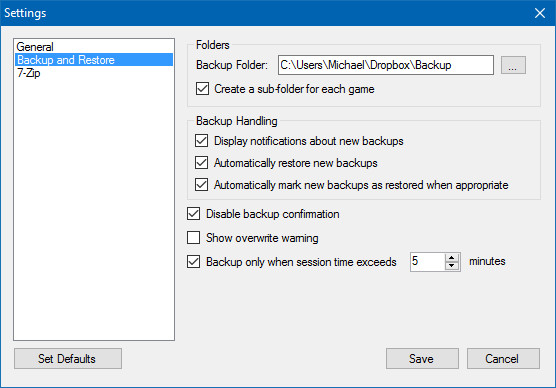
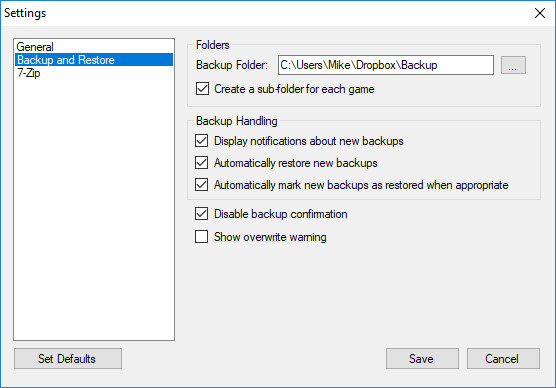
Updated manual

diff --git a/gbm_task_scheduler.html b/gbm_task_scheduler.html
@@ -1,0 +1,78 @@
+<!DOCTYPE html PUBLIC "-//W3C//DTD XHTML 1.0 Transitional//EN"
+    "http://www.w3.org/TR/xhtml1/DTD/xhtml1-transitional.dtd">
+<html xmlns="http://www.w3.org/1999/xhtml">
+<head>
+  <meta name="generator" content="HTML Tidy for HTML5 for Windows version 5.1.25" />
+  <meta http-equiv="Content-Type" content="text/html; charset=us-ascii" />
+  <meta name="description" content="Game Backup Monitor - Automatically backup your save games and add cloud support to any game for free!" />
+  <meta name="keywords" content="Game, Games, Save, Saves, Saved, Backup, Restore, Sync, Download, Cloud, Dropbox, GOG, Steam, Origin, Time, Monitor, PC" />
+  <meta name="author" content="Michael J. Seiferling" />
+  <title>Game Backup Monitor [Task Scheduler Help]</title>
+  <script type="text/javascript" language="javascript" src="script/jquery-1.10.2.min.js">
+  </script>
+  <script type="text/javascript" language="javascript" src="script/jquery.hoverIntent.min.js">
+  </script>
+  <link rel="stylesheet" type="text/css" href="styles/styles.css" />
+  <link rel="shortcut icon" href="images/gbm.ico" />
+</head>
+<body>
+  <div id="top">
+    <!--Include the Header (Starts Content)-->
+    <script type="text/javascript">
+    //<![CDATA[
+        $(function(){
+                $("#header").load("header.html");
+        });
+    //]]>
+    </script>
+    <div id="header"></div>
+    <div id="content">
+      <div id="leftcontent">
+        <div class="pageSection">
+          <div class="pageSectionHeader">
+            Using Task Scheduler to start Game Backup Monitor as Administrator
+          </div>
+          <div class="pageSectionContent">
+            <h4>This page will describe how to start Game Backup Monitor with Windows as Administrator.</h4>
+            <p>These instructions are for Windows 10, they will differ slightly on other versions of Windows.</p>
+            <ol>
+                <li>Disable "Start with Windows" in Game Backup Monitor.</li>
+                <li>Open Windows Settings, type "Task Scheduler" in the search and choose the "Schedule tasks" option when it appears.
+                <br /><br /><img class="manual" src="images/manual/task_scheduler_01.jpg" width="502" height="422" alt="Task Scheduler" /><br /></li>
+                <li>Right-click on the "Task Scheulder Library" folder and choose "New Folder..." from the menu.</li>
+                <li>Enter "Game Backup Monitor" in the new folder window and click OK.</li>
+                <li>Right-click on the "Game Backup Monitor" folder and choose "Create Basic Task..." to open the new task window.</li>
+                <li>Enter "Startup" as the name of the task and any description you'd like.  Click Next to move to the Trigger section.
+                <br /><br /><img class="manual" src="images/manual/task_scheduler_02.jpg" width="696" height="488" alt="Task Scheduler" /><br /></li>
+                <li>Choose "When I log on" and click Next to move to the Action section.
+                <br /><br /><img class="manual" src="images/manual/task_scheduler_03.jpg" width="696" height="488" alt="Task Scheduler" /><br /></li>
+                <li>Choose "Start a program" and click Next.
+                <br /><br /><img class="manual" src="images/manual/task_scheduler_04.jpg" width="696" height="488" alt="Task Scheduler" /><br /></li>
+                <li>Click the "Browse..." button and navigate to the folder where GBM is installed, choose the GBM.exe file.  Click Next.
+                <br /><br /><img class="manual" src="images/manual/task_scheduler_05.jpg" width="696" height="488" alt="Task Scheduler" /><br /></li>
+                <li>The final page shows a summary.  Tick the "Open the Properties dialog for this task when I click Finish" checkbox.  Click Finish.
+                <br /><br /><img class="manual" src="images/manual/task_scheduler_06.jpg" width="696" height="488" alt="Task Scheduler" /><br /></li>
+                <li>The properties window will appear.  Tick the "Run with highest privileges" checkbox.  Click OK.
+                <br /><br /><img class="manual" src="images/manual/task_scheduler_07.jpg" width="632" height="480" alt="Task Scheduler" /><br /></li>
+                <li>Close Task Scheduler.</li>
+            </ol>
+            <h4>Game Backup Monitor will now Start with Windows as Administrator.</h4>            
+          </div>
+          <div class="pageSectionFooter">
+            <a href="#">Back to Top</a>
+          </div>
+        </div>        
+      </div><!--End Left Panel-->
+    </div><!--Include the Footer-->
+      <script type="text/javascript">
+      //<![CDATA[
+                $(function(){
+                        $("#footer").load("footer.html");
+                });
+      //]]>
+      </script>
+      <div id="footer"></div><!--End Content-->
+    </div><!--End Top-->
+  </div>
+</body>
+</html>

diff --git a/manual.html b/manual.html
@@ -30,10 +30,10 @@
       <div id="leftcontent">
         <div class="pageSection">
           <div class="pageSectionHeader">
-            Game Backup Monitor v1.0.5 Manual
+            Game Backup Monitor v1.0.6 Manual
           </div>
           <div class="pageSectionContent">
-            <h3 class="notop">Updated December 8, 2017</h3>
+            <h3 class="notop">Updated December 29, 2017</h3>
             <h3>Disclaimer:</h3>
             <p>This manual may contain information about features not available in the current stable release.</p>
             <p>If you are having a specific problem, please check the <a href="https://github.com/MikeMaximus/gbm/issues">issues</a> list.</p>
@@ -144,6 +144,7 @@
             <img class="manual" src="images/manual/manual_15.jpg" width="556" height="388" alt="Settings" />
             <h4>Start with Windows:</h4>
             <p>This indicates if you want GBM to start automatically when Windows starts. This setting applies to the current user only. This setting is disabled in Linux.</p>
+            <p>This setting will not function correctly if GBM is flagged to "Run as Administrator".  If you'd like to start GBM with Windows as administrator you need to disable this setting and use the <b>Windows Task Scheduler</b>.  Please <a href="gbm_task_scheduler.html">follow these instructions</a> to setup a task for Game Backup Monitor.</p>
             <h4>Start to system tray:</h4>
             <p>This makes GBM minimize to the system tray immediately, instead of showing the main window when it starts. Recommended if you're using the Start with Windows setting. This setting is disabled in Linux.</p>
             <h4>Start monitoring at launch:</h4>
@@ -154,6 +155,8 @@
             <p>GBM will record individual session data when this is enabled.  Toggling this setting has no effect on session data that's already been recorded.</p>
             <h4>Enable Syncing:</h4>
             <p>When sharing a backup folder with multiple computers using GBM, this setting allows you to automatically keep your game data in sync between these computers. It can be disabled if you're using GBM on a single computer for a slight performance boost.</p>
+            <h4>Ignore sessions shorter than X minutes:</h4>
+            <p>GBM can suppress backups if a session time is too short. This is useful to prevent unwanted backups just because you loaded a game for a few minutes. If session tracking is enabled, it will use this setting and ignore short sessions.</p>            
             <h4>Choose Optional Fields:</h4>
             <p>Use this button to choose any extra data you'd like to keep in sync between computers.  Fields such as Game Path and Icon are not recommended because they may be different on each PC.</p>
             <h4>Show detection notifications:</h4>
@@ -182,10 +185,6 @@
             <p>This will stop GBM from showing a backup confirmation after each game session.</p>
             <h4>Show overwrite warning:</h4>
             <p>This will require GBM to show a confirmation before overwriting any backup file.</p>            
-            <h4>Notify when there are new backup files to restore:</h4>
-            <p>GBM can inform you when there are new saved game backups to restore. This is only useful when you're sharing a backup folder with multiple computers.</p>
-            <h4>Backup only when session time exceeds X minutes</h4>
-            <p>GBM can suppress backups when a session time doesn't exceed a specific time frame. This is useful to prevent unwanted backups just because you loaded a game for a few minutes. This setting isn't related to "Enable time tracking" and works independently.</p>            
             <h3>7-Zip</h3>
             <img class="manual" src="images/manual/manual_18.jpg" width="556" height="393" alt="Settings" />
             <h4>Compression:</h4>

diff --git a/footer.html b/footer.html
@@ -5,5 +5,5 @@
 	<a class="stealthlink" href="mailto:gamebackupmonitor@gmail.com">Contact Us</a>
 	</p>
 </div>
-<div id="footer">GBM - Game Backup Monitor &copy; 2017 Michael J. Seiferling</div>
+<div id="footer">GBM - Game Backup Monitor &copy; 2018 Michael J. Seiferling</div>
 <!--End Footer-->
